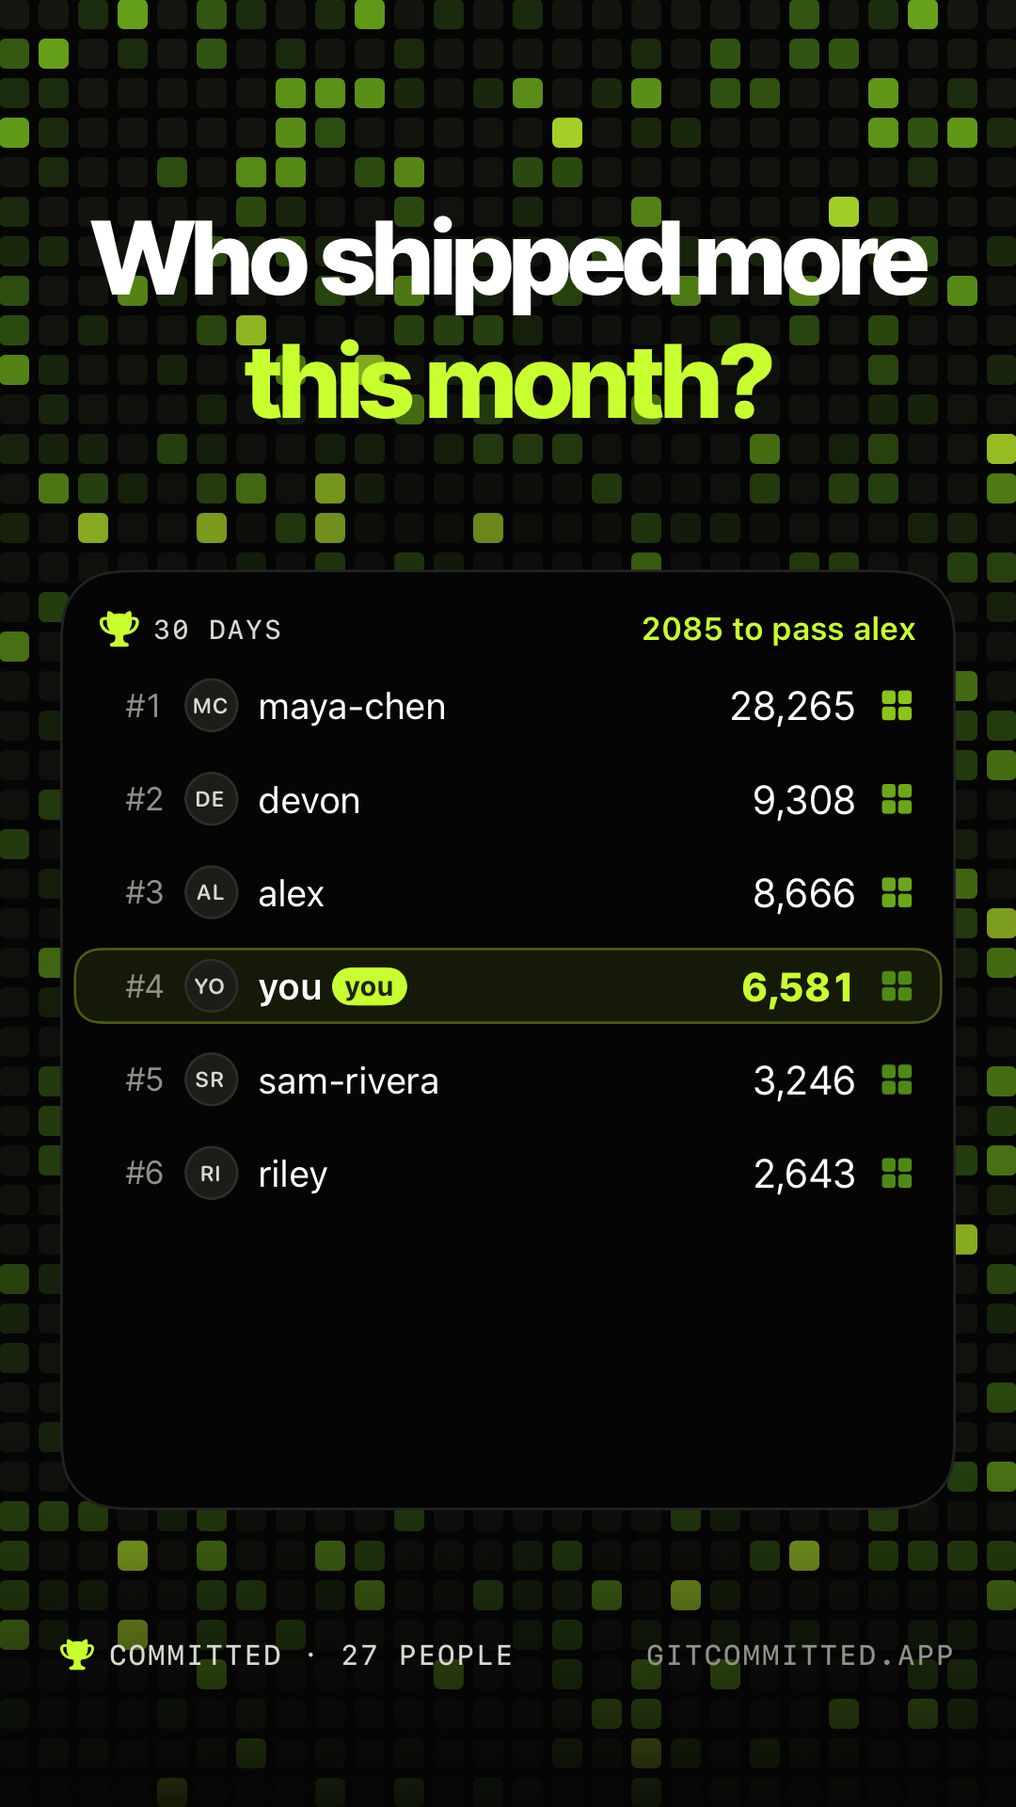
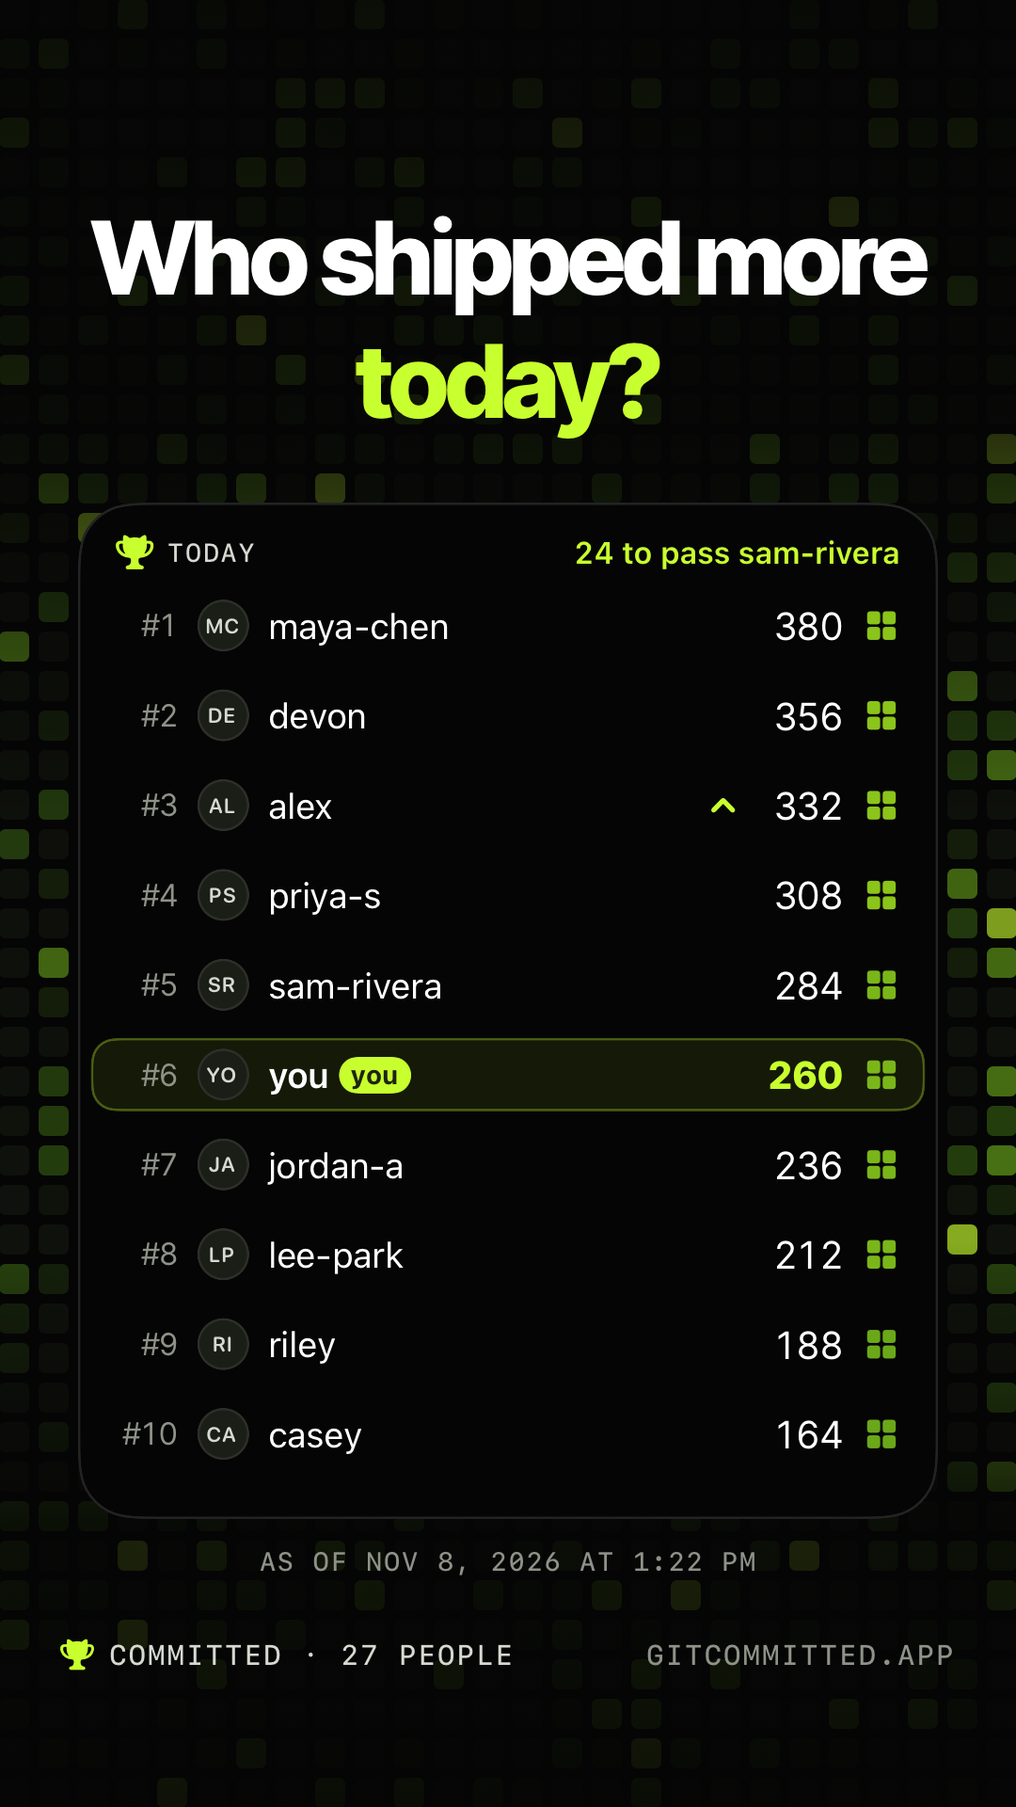
Share images: more people, a timestamp, a readable headline, image only (#64)
* Share images: more people, a timestamp, a readable headline, image only

The Board image grows to 8 people on a square and 10 on a story (you pinned
below a rule when further down), prints when the numbers are from, fades the
squares behind the story headline, and shares the PNG alone through
UIActivityViewController instead of ShareLink's titled preview.

* Update share board screenshots

---------

diff --git a/CommitStandingsiOS/Board/BoardShare.swift b/CommitStandingsiOS/Board/BoardShare.swift
@@ -28,11 +28,18 @@ enum BoardShareStyle: String, CaseIterable, Identifiable, Sendable {
     }
 
     /// The widget's size in points on the biggest iPhones, where its layout has the most room.
-    var widgetSize: CGSize {
+    /// The board grows past the Home Screen's height to fit its rows (`rows`, counting you), with no
+    /// empty space under them.
+    func widgetSize(rows: Int, dividesSelf: Bool) -> CGSize {
         switch self {
-        case .board: CGSize(width: 364, height: 382)
-        case .race: CGSize(width: 364, height: 170)
-        case .rank, .list: CGSize(width: 170, height: 170)
+        case .board:
+            // Header and margins, then each row at its height plus the 8 pt between rows, and the
+            // rule over your row when you're further down. Measured from renders at the fixed
+            // Dynamic Type size the card uses.
+            let height = 56 + CGFloat(rows) * 38.2 - 8 + (dividesSelf ? 13 : 0)
+            return CGSize(width: 364, height: max(height, 170))
+        case .race: return CGSize(width: 364, height: 170)
+        case .rank, .list: return CGSize(width: 170, height: 170)
         }
     }
 }
@@ -70,10 +77,22 @@ enum BoardShareFormat: String, CaseIterable, Identifiable, Sendable {
     /// The most room the widget may take, in points, before it's scaled to fit.
     fileprivate var widgetRoom: CGSize {
         switch self {
-        case .square: CGSize(width: 460, height: 410)
+        case .square: CGSize(width: 460, height: 380)
         case .story: CGSize(width: 476, height: 540)
         }
     }
+
+    /// How many people the Board style shows, counting you: the large widget's six would leave a
+    /// share image half empty.
+    var boardRows: Int {
+        switch self {
+        case .square: 8
+        case .story: 10
+        }
+    }
+
+    /// The most rows any format shows: how many the board snapshot for sharing carries.
+    static let maxBoardRows = allCases.map(\.boardRows).max() ?? WidgetSnapshot.topCount
 }
 
 /// The share image: a widget on the board's squares, with Committed's name under it, and on a story
@@ -88,9 +107,17 @@ struct BoardShareCard: View {
         ZStack {
             Color.ink
             BoardShareSquareField(brightness: format == .story ? 1 : 0.55)
-            // The squares fade out under the footer, so it reads.
-            LinearGradient(colors: [Color.ink.opacity(0), Color.ink.opacity(0.92)], startPoint: .top, endPoint: .bottom)
-                .frame(height: format == .story ? 220 : 120)
+            if format == .story {
+                // The squares fade out behind the headline, so it reads.
+                LinearGradient(colors: [Color.ink.opacity(0.94), Color.ink.opacity(0.8), Color.ink.opacity(0)],
+                               startPoint: .top, endPoint: .bottom)
+                    .frame(height: 440)
+                    .frame(maxHeight: .infinity, alignment: .top)
+            }
+            // The squares fade out under the timestamp and the footer, so they read.
+            LinearGradient(colors: [Color.ink.opacity(0), Color.ink.opacity(0.85), Color.ink.opacity(0.95)],
+                           startPoint: .top, endPoint: .bottom)
+                .frame(height: format == .story ? 300 : 170)
                 .frame(maxHeight: .infinity, alignment: .bottom)
             VStack(spacing: 0) {
                 if format == .story {
@@ -100,7 +127,9 @@ struct BoardShareCard: View {
                 } else {
                     Spacer(minLength: 0)
                 }
-                BoardShareWidget(snapshot: snapshot, style: style, room: format.widgetRoom)
+                BoardShareWidget(snapshot: snapshot, style: style, format: format)
+                BoardShareTimestamp(date: snapshot.state.updatedDate)
+                    .padding(.top, 14)
                 Spacer(minLength: 0)
                 BoardShareFooter(peopleCount: snapshot.state.competitorCount)
                     .padding(.bottom, format == .story ? 72 : 26)
@@ -122,18 +151,29 @@ struct BoardShareCard: View {
     static func headline(_ window: ContributionWindow) -> String {
         "Who shipped more \(BoardShareHeadline.when(window))"
     }
+
+    /// When the numbers are from, as the image prints it ("As of Nov 8, 2026, 3:42 PM").
+    static func timestamp(_ date: Date, locale: Locale = .current, timeZone: TimeZone = .current) -> String {
+        var style = Date.FormatStyle.dateTime.month(.abbreviated).day().year().hour().minute()
+        style.locale = locale
+        style.timeZone = timeZone
+        return "As of \(date.formatted(style))"
+    }
 }
 
-/// The widget itself, at its own size and in its own frame, scaled up to fill `room`.
+/// The widget itself, at its own size and in its own frame, scaled up to fill the format's room.
 private struct BoardShareWidget: View {
     let snapshot: WidgetSnapshot
     let style: BoardShareStyle
-    let room: CGSize
+    let format: BoardShareFormat
 
     var body: some View {
-        let size = style.widgetSize
+        let shown = style == .board ? snapshot.sharing(rows: format.boardRows) : snapshot
+        let size = style.widgetSize(rows: shown.top.count + (shown.selfIsInTop ? 0 : 1),
+                                    dividesSelf: !shown.selfIsInTop && shown.selfRow != nil)
+        let room = format.widgetRoom
         let scale = min(room.width / size.width, room.height / size.height)
-        content
+        content(shown)
             // The system's widget content margin, which the rows bleed into.
             .padding(16)
             .frame(width: size.width, height: size.height)
@@ -143,7 +183,7 @@ private struct BoardShareWidget: View {
             .frame(width: size.width * scale, height: size.height * scale)
     }
 
-    @ViewBuilder private var content: some View {
+    @ViewBuilder private func content(_ snapshot: WidgetSnapshot) -> some View {
         switch style {
         case .board: CommittedWidgetLarge(snapshot: snapshot)
         case .race: CommittedWidgetMedium(snapshot: snapshot)
@@ -158,7 +198,8 @@ private struct BoardShareHeadline: View {
     let window: ContributionWindow
 
     var body: some View {
-        Text("Who shipped more \(Text(Self.when(window)).foregroundStyle(Color.lime))")
+        // The Window on its own line, so the headline never breaks mid-phrase.
+        Text("Who shipped more\n\(Text(Self.when(window)).foregroundStyle(Color.lime))")
             .font(CommittedType.display(54, relativeTo: .largeTitle))
             .displayTracking(54)
             .foregroundStyle(.white)
@@ -173,6 +214,31 @@ private struct BoardShareHeadline: View {
         case .weekly: "this week?"
         case .monthly: "this month?"
         }
+    }
+}
+
+/// When the numbers are from, under the widget, so an old screenshot reads as old.
+private struct BoardShareTimestamp: View {
+    let date: Date
+
+    var body: some View {
+        Text(BoardShareCard.timestamp(date))
+            .font(.system(size: 14, weight: .medium, design: .monospaced))
+            .tracking(0.8)
+            .textCase(.uppercase)
+            .foregroundStyle(Color.muted)
+            .lineLimit(1)
+    }
+}
+
+extension WidgetSnapshot {
+    /// The board cut to `rows` people counting you: the leaders when you're among them, otherwise
+    /// one fewer leader, and the large widget adds you below its rule.
+    func sharing(rows: Int) -> WidgetSnapshot {
+        var copy = self
+        let leaders = Array(top.prefix(rows))
+        copy.top = leaders.contains(where: \.isSelf) || selfRow == nil ? leaders : Array(top.prefix(max(rows - 1, 0)))
+        return copy
     }
 }
 
@@ -274,7 +340,7 @@ struct BoardShareSheet: View {
     let snapshot: WidgetSnapshot
     @State private var style: BoardShareStyle = .board
     @State private var format: BoardShareFormat
-    @State private var rendered: Rendered?
+    @State private var sharing: SharedFile?
     @Environment(\.dismiss) private var dismiss
 
     init(snapshot: WidgetSnapshot, initialFormat: BoardShareFormat = .square) {
@@ -282,9 +348,9 @@ struct BoardShareSheet: View {
         _format = State(initialValue: initialFormat)
     }
 
-    private struct Rendered {
+    private struct SharedFile: Identifiable {
         let url: URL
-        let preview: Image
+        var id: URL { url }
     }
 
     var body: some View {
@@ -314,20 +380,11 @@ struct BoardShareSheet: View {
                 .pickerStyle(.segmented)
                 .padding(.horizontal, 24)
 
-                Group {
-                    if let rendered {
-                        ShareLink(
-                            item: rendered.url,
-                            preview: SharePreview("Committed board", image: rendered.preview)
-                        ) {
-                            Label("Share", systemImage: "square.and.arrow.up")
-                                .frame(maxWidth: .infinity)
-                        }
-                    } else {
-                        Label("Share", systemImage: "square.and.arrow.up")
-                            .frame(maxWidth: .infinity)
-                            .opacity(0.5)
-                    }
+                Button {
+                    sharing = (try? BoardShareRenderer.file(snapshot, style: style, format: format)).map(SharedFile.init)
+                } label: {
+                    Label("Share", systemImage: "square.and.arrow.up")
+                        .frame(maxWidth: .infinity)
                 }
                 .buttonStyle(LimeButtonStyle())
                 .padding(.horizontal, 24)
@@ -342,19 +399,24 @@ struct BoardShareSheet: View {
                 }
             }
         }
-        .task(id: "\(style.rawValue)-\(format.rawValue)") { render() }
+        // The image alone: no title or caption rides along into the post or message.
+        .sheet(item: $sharing) { file in
+            BoardShareActivity(url: file.url)
+                .presentationDetents([.medium, .large])
+                .ignoresSafeArea()
+        }
+    }
+}
+
+/// The system share sheet with only the PNG.
+private struct BoardShareActivity: UIViewControllerRepresentable {
+    let url: URL
+
+    func makeUIViewController(context: Context) -> UIActivityViewController {
+        UIActivityViewController(activityItems: [url], applicationActivities: nil)
     }
 
-    /// Renders the selected image ahead of the tap, so the share sheet opens at once.
-    private func render() {
-        guard let url = try? BoardShareRenderer.file(snapshot, style: style, format: format),
-              let image = UIImage(contentsOfFile: url.path)
-        else {
-            rendered = nil
-            return
-        }
-        rendered = Rendered(url: url, preview: Image(uiImage: image))
-    }
+    func updateUIViewController(_ controller: UIActivityViewController, context: Context) {}
 }
 
 /// One page of the carousel: the card itself, scaled to fit the page.

diff --git a/CommitStandingsiOSTests/BoardShareTests.swift b/CommitStandingsiOSTests/BoardShareTests.swift
@@ -25,9 +25,33 @@ struct BoardShareTests {
 
     @Test func fileIsAPNGNamedForWhatItShows() throws {
         let url = try BoardShareRenderer.file(Self.board, style: .board, format: .story)
-        #expect(url.lastPathComponent == "Committed-30-days-board-story.png")
+        #expect(url.lastPathComponent == "Committed-Today-board-story.png")
         let data = try Data(contentsOf: url)
         #expect(data.starts(with: [0x89, 0x50, 0x4E, 0x47]))
+    }
+
+    @Test func boardShowsMorePeopleThanTheWidget() {
+        #expect(BoardShareFormat.square.boardRows == 8)
+        #expect(BoardShareFormat.story.boardRows == 10)
+        #expect(BoardShareFormat.maxBoardRows == 10)
+        // You're sixth: the leaders, you among them.
+        let square = Self.board.sharing(rows: 8)
+        #expect(square.top.map(\.rank) == Array(1...8))
+        #expect(square.selfIsInTop)
+    }
+
+    @Test func youStayOnTheImageWhenFurtherDown() {
+        // You're 14th: seven leaders, then the large widget adds you below its rule.
+        let square = Self.farDown.sharing(rows: 8)
+        #expect(square.top.map(\.rank) == Array(1...7))
+        #expect(!square.selfIsInTop)
+        #expect(square.selfRow?.rank == 14)
+    }
+
+    @Test func timestampSaysWhenTheNumbersAreFrom() {
+        let date = Date(timeIntervalSince1970: 1_794_172_920) // 2026-11-08 21:22 UTC
+        let text = BoardShareCard.timestamp(date, locale: Locale(identifier: "en_US"), timeZone: TimeZone(identifier: "America/Los_Angeles")!)
+        #expect(text == "As of Nov 8, 2026 at 1:22\u{202F}PM" || text == "As of Nov 8, 2026, 1:22\u{202F}PM")
     }
 
     @Test func storyHeadlineFollowsTheWindow() {
@@ -59,6 +83,13 @@ struct BoardShareTests {
         try await save(window, name: "share-board-button")
     }
 
+    @Test(.enabled(if: ProcessInfo.processInfo.environment["RENDER_DIR"] != nil), arguments: BoardShareFormat.allCases)
+    func boardFarDown(format: BoardShareFormat) throws {
+        let directory = try #require(renderDirectory)
+        let image = try #require(BoardShareRenderer.image(Self.farDown, style: .board, format: format))
+        try #require(image.pngData()).write(to: directory.appendingPathComponent("share-board-far-\(format.rawValue).png"))
+    }
+
     private func makeWindow(_ controller: UIViewController) throws -> UIWindow {
         let scene = try #require(UIApplication.shared.connectedScenes.compactMap { $0 as? UIWindowScene }.first)
         let window = UIWindow(windowScene: scene)
@@ -83,24 +114,36 @@ struct BoardShareTests {
         window.isHidden = true
     }
 
-    /// Thirty days, you fourth of 27, and the leaders' counts far apart, as a real board has them.
-    static let board = WidgetSnapshot(
-        selfLogin: "you",
-        state: LiveRankState(
-            window: ContributionWindow.monthly.rawValue, rank: 4, competitorCount: 27, contributions: 6_581,
-            above: .init(login: "alex", contributions: 8_666, movementToday: 0),
-            below: .init(login: "sam-rivera", contributions: 3_246, movementToday: 0),
-            movementToday: 0, updatedAt: Int(Date().timeIntervalSince1970)
-        ),
-        top: [
-            .init(rank: 1, login: "maya-chen", contributions: 28_265, movement: 0, isSelf: false),
-            .init(rank: 2, login: "devon", contributions: 9_308, movement: 0, isSelf: false),
-            .init(rank: 3, login: "alex", contributions: 8_666, movement: 0, isSelf: false),
-            .init(rank: 4, login: "you", contributions: 6_581, movement: 0, isSelf: true),
-            .init(rank: 5, login: "sam-rivera", contributions: 3_246, movement: 0, isSelf: false),
-            .init(rank: 6, login: "riley", contributions: 2_643, movement: 0, isSelf: false),
-        ]
-    )
+    /// Today, you sixth of 27, as a real board has it: ten rows for the share's taller board.
+    static let board = snapshot(selfRank: 6, window: .daily)
+
+    /// Thirty days, you fourteenth of 27: below every format's rows.
+    static let farDown = snapshot(selfRank: 14, window: .monthly)
+
+    private static func snapshot(selfRank: Int, window: ContributionWindow) -> WidgetSnapshot {
+        let logins = ["maya-chen", "devon", "alex", "priya-s", "sam-rivera", "jordan-a", "lee-park", "riley",
+                      "casey", "morgan", "taylor-k", "jamie", "drew", "quinn", "avery"]
+        let scale = window == .daily ? 1 : 30
+        var rows: [WidgetSnapshot.Row] = []
+        var people = logins
+        people.insert("you", at: selfRank - 1)
+        for (index, login) in people.prefix(BoardShareFormat.maxBoardRows).enumerated() {
+            let count = max(0, (380 - index * 24) * scale)
+            rows.append(.init(rank: index + 1, login: login, contributions: count,
+                              movement: window == .daily && index == 2 ? 1 : 0, isSelf: login == "you"))
+        }
+        let mine = max(0, (380 - (selfRank - 1) * 24) * scale)
+        return WidgetSnapshot(
+            selfLogin: "you",
+            state: LiveRankState(
+                window: window.rawValue, rank: selfRank, competitorCount: 27, contributions: mine,
+                above: .init(login: people[selfRank - 2], contributions: mine + 24 * scale, movementToday: 0),
+                below: .init(login: people[selfRank], contributions: max(0, mine - 24 * scale), movementToday: 0),
+                movementToday: 0, updatedAt: 1_794_172_920
+            ),
+            top: rows
+        )
+    }
 }
 
 @MainActor

diff --git a/CommitStandingsiOS/App/WidgetPublisher.swift b/CommitStandingsiOS/App/WidgetPublisher.swift
@@ -42,13 +42,15 @@ final class WidgetPublisher {
 
 // App only: the extension can't rank, so it never builds a snapshot.
 extension WidgetSnapshot {
-    /// The snapshot for the visible board, ranked as the Board ranks it.
+    /// The snapshot for the visible board, ranked as the Board ranks it, with the first `rows`
+    /// people (the large widget's six; the share images take more).
     @MainActor
     static func board(
         _ store: StandingsStore,
         window: ContributionWindow,
         rankDelta: (String) -> Int?,
-        now: Date
+        now: Date,
+        rows: Int = topCount
     ) -> WidgetSnapshot? {
         guard let me = store.selfCompetitor?.username else { return nil }
         let state = LiveRankState.board(store, window: window, rankDelta: rankDelta, now: now)
@@ -58,7 +60,7 @@ extension WidgetSnapshot {
             visible.contains(login) && standing.lastUpdated != .distantPast
         }
         let ranked = Ranking.order(competitors: competitors, standings: standings, window: window)
-        let top = ranked.prefix(topCount).map { entry in
+        let top = ranked.prefix(rows).map { entry in
             let login = entry.competitor.username
             let standing = standings[login]
             return Row(

diff --git a/CommitStandingsiOS/Board/BoardView.swift b/CommitStandingsiOS/Board/BoardView.swift
@@ -51,7 +51,8 @@ struct BoardView: View {
                     Button("Share board", systemImage: "square.and.arrow.up") {
                         sharing = WidgetSnapshot.board(
                             store, window: store.selectedWindow,
-                            rankDelta: { refresh.rankDelta(for: $0) }, now: .now
+                            rankDelta: { refresh.rankDelta(for: $0) }, now: .now,
+                            rows: BoardShareFormat.maxBoardRows
                         ).map(BoardShareRequest.init)
                     }
                     .disabled(!store.hasSelf)

diff --git a/PRODUCT.md b/PRODUCT.md
@@ -70,7 +70,7 @@ All three windows are available once the contribution data loads; there is no hi
 Committed for iPhone runs the same board, ranking, people sync, and visibility rules as the Mac app. It's a native app with three tabs: **Board**, **People**, and **Settings**. On iPhone Duo the tabs and toolbar sit in the vertical side bar. It's dark only and wears the website's look: an ink background, lime for you and your rank, Inter Tight numbers, and a lit field of contribution squares behind your rank.
 
 - **Board** — your summary (your rank, Contributions, today's movement, the gap to pass the person ahead, and when the numbers were updated), the **Today / 7 days / 30 days** switch (a menu at the largest text sizes), and everyone ranked with the same rows as the Mac popover, including the "you" badge, placeholders, today's movement, and the private-contributions tip. Pull to refresh reloads people and contributions. Opening the app refreshes only when the data is older than about 2 minutes; while open, the board refreshes about every 5 minutes.
-- **Share board** — the share button in the Board's navigation bar opens a sheet for sharing the board as an image of Committed's own widget. Swipe between **Board** (the large widget: the top six, then you below a rule when you're further down), **Your race** (the medium widget), **Rank** (the small widget), and **Top 4** (the Committed Board widget). Pick **Square** (1080 × 1080) or **Story** (1080 × 1920: the widget on the contribution-square field under "Who shipped more today?", "…this week?" or "…this month?"). The image shows the Board's current Window and only the people the board shows, with "Committed · 27 people" and gitcommitted.app at the foot. **Share** opens the system share sheet with the image as a PNG.
+- **Share board** — the share button in the Board's navigation bar opens a sheet for sharing the board as an image of Committed's own widget. Swipe between **Board** (the large widget, grown to eight people on a square and ten on a story, counting you: you sit below a rule when you're further down), **Your race** (the medium widget), **Rank** (the small widget), and **Top 4** (the Committed Board widget). Pick **Square** (1080 × 1080) or **Story** (1080 × 1920: the widget on the contribution-square field under "Who shipped more today?", "…this week?" or "…this month?"). The image shows the Board's current Window and only the people the board shows, with when the numbers are from ("As of Nov 8, 2026 at 1:22 PM") under the widget and "Committed · 27 people" and gitcommitted.app at the foot. **Share** opens the system share sheet with the image alone as a PNG, with no caption.
 - **iPhone Duo** — open in landscape, the Board shows two panes divided evenly at the fold: the leaderboard on the leading side and your summary beside it, with the people directly above and below you under it. Wherever there's room for only one (closed, open in portrait, Split View), the leaderboard shows with your summary at the top. Opening and closing keeps the tab and the Window. Centered controls (Connect GitHub, the People filter) move to one side of the fold when it's partially folded like a book.
 - **Connect GitHub** uses the same device flow. The code is shown large with **Copy Code** and **Open GitHub**, and approval can happen in Safari on the same phone. The token is stored in the iPhone's Keychain.
 - **People** — everyone alphabetically, with search and **All / Following / Organizations** filters that match the Mac's **People…** window, and when people last synced from GitHub. Tap the eye to hide someone or the eye-slash to show them again. Hidden people stay listed; you can't hide yourself. The board and rankings update right away.
